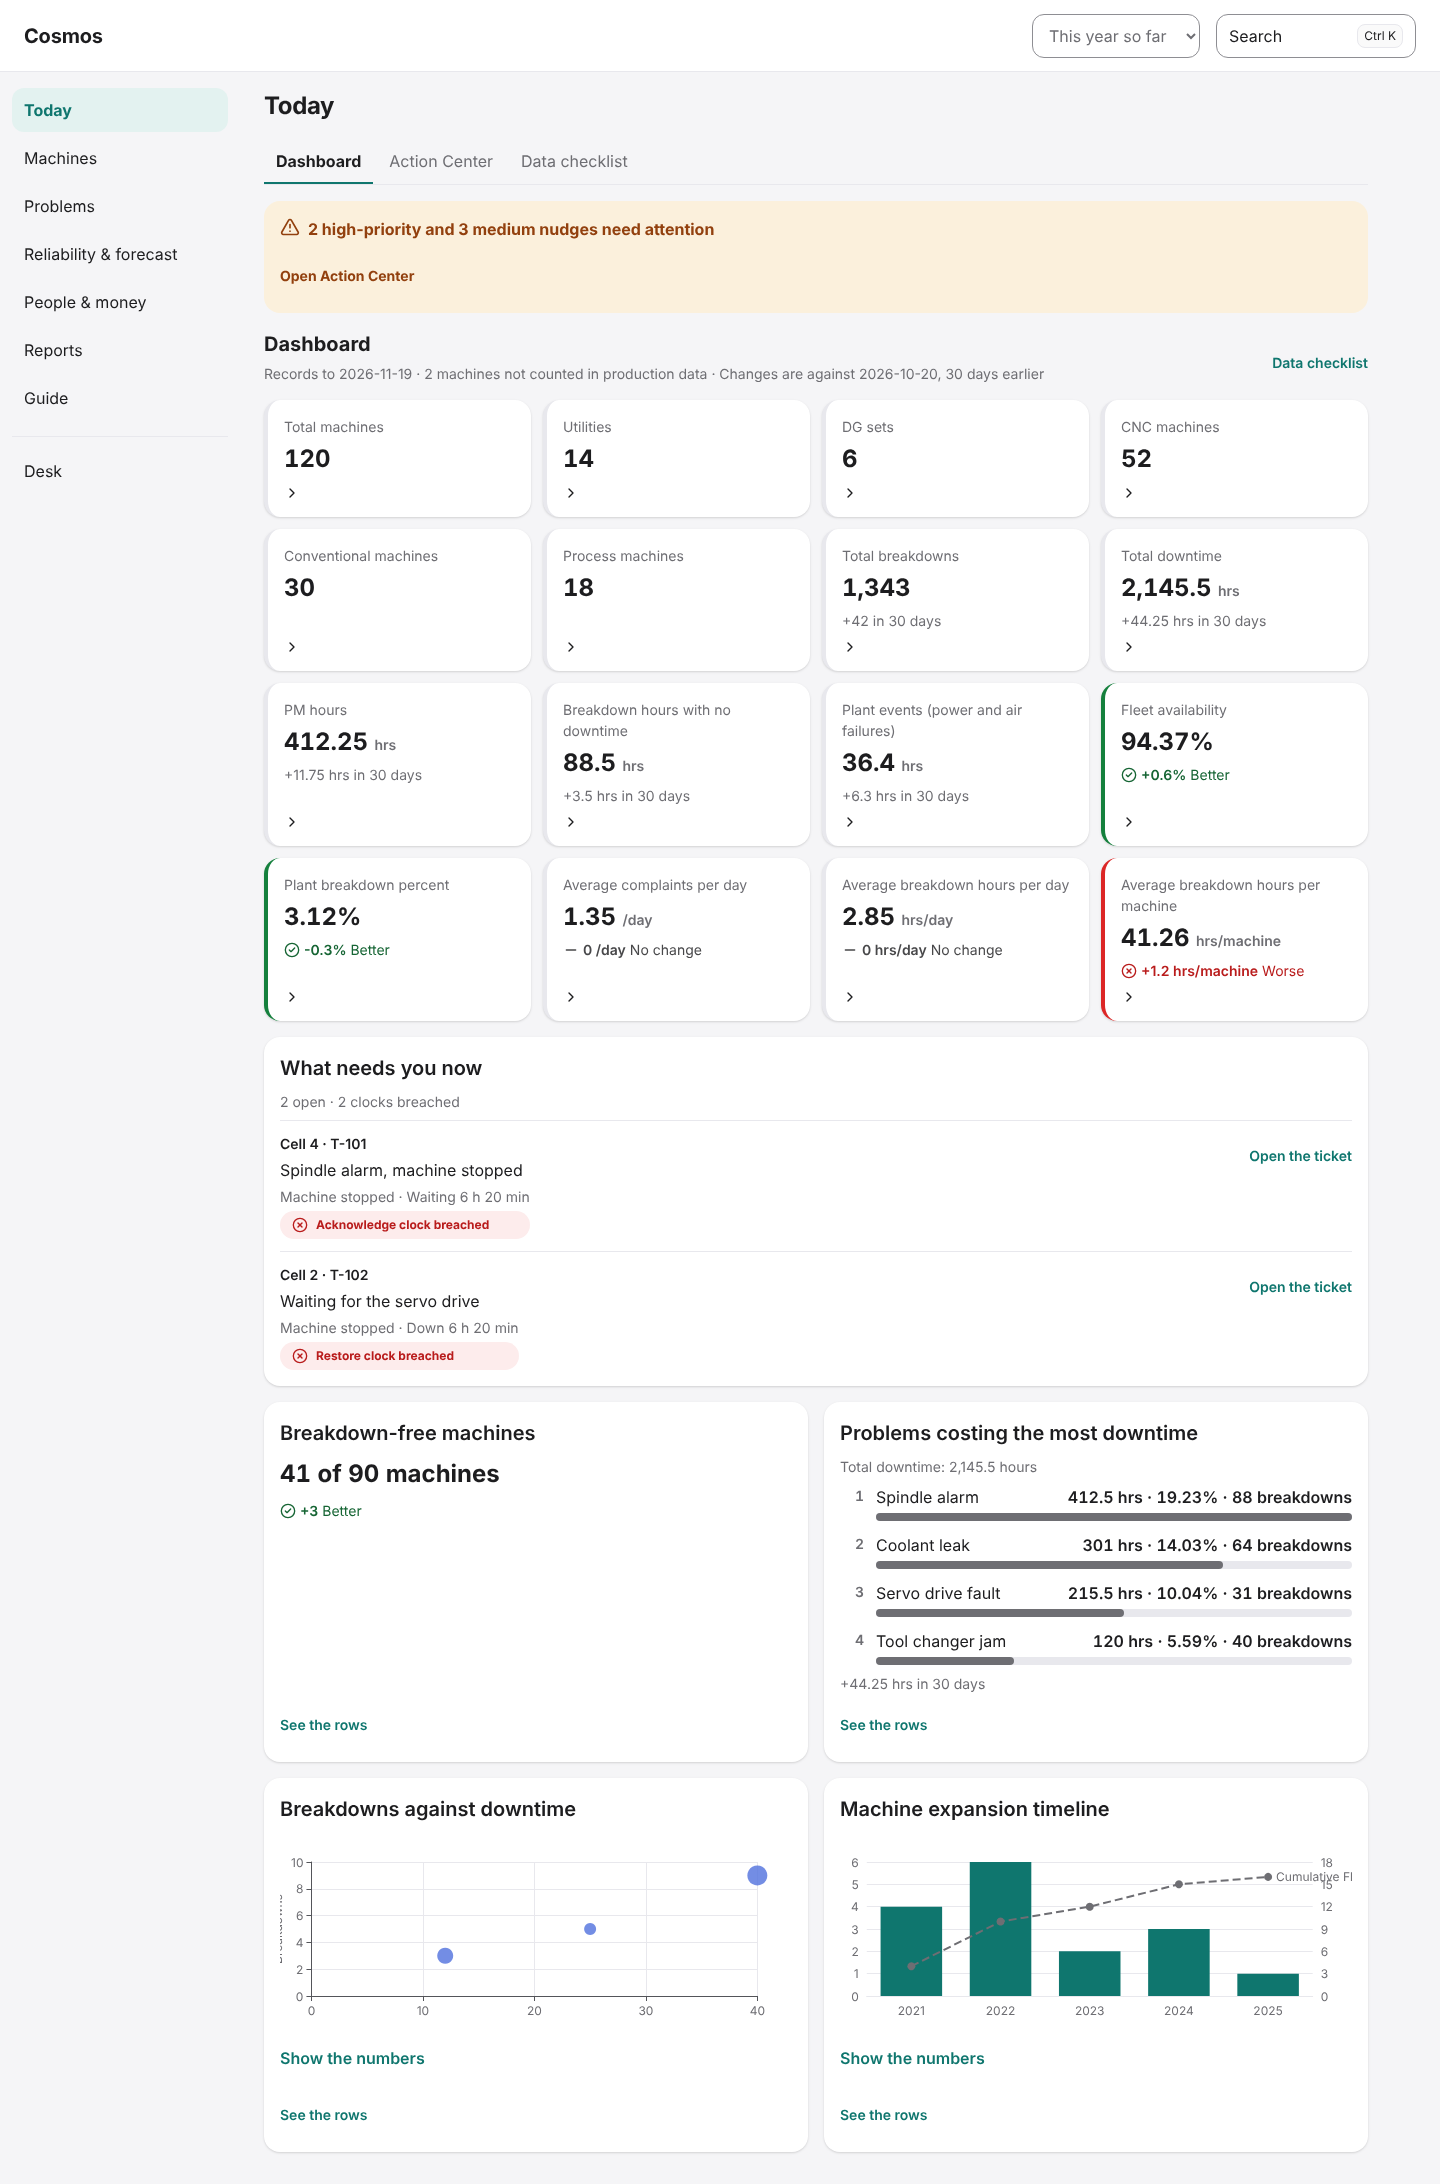
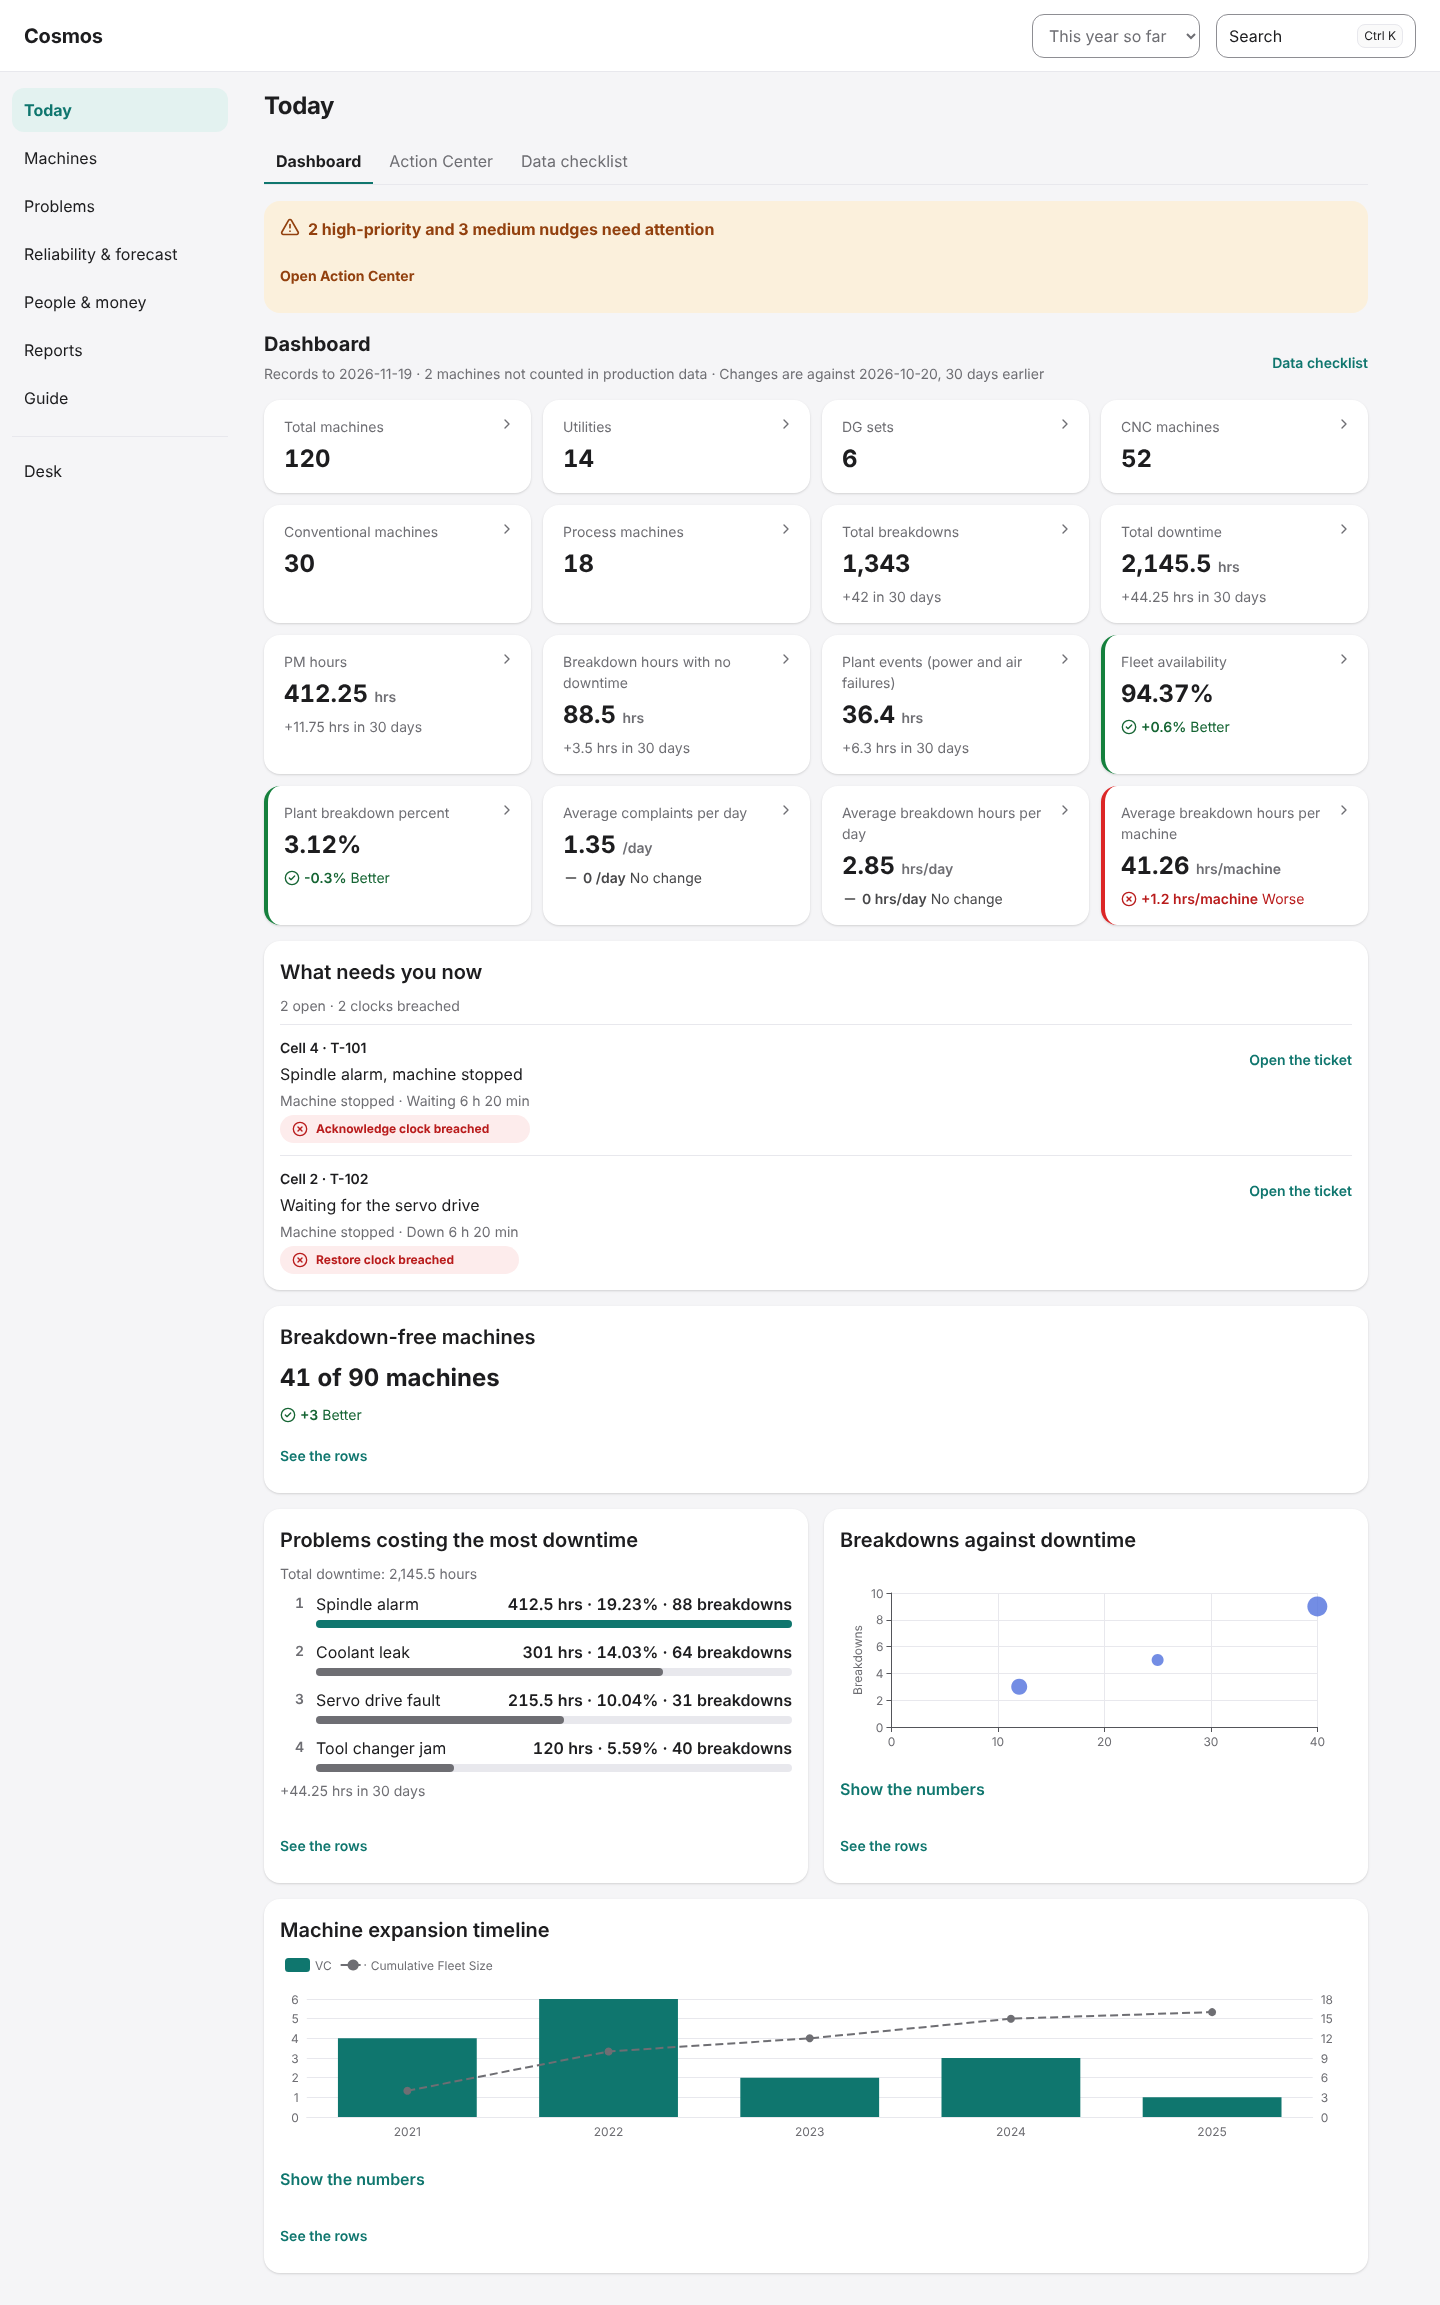
86: round 2, tight tiles, full-row cards, chart labels, one Team Focus heading
Claude-Session: https://claude.ai/code/session_01KEBF26istx9ETY2T7Vyzc3

diff --git a/apps/web/src/screens/analytics/TodayFigures.tsx b/apps/web/src/screens/analytics/TodayFigures.tsx
@@ -18,6 +18,12 @@ type Figure = FiguresReply['figures'][number];
 /** The engine gives its figures to 2 places at most; printing 2 keeps every value exact. */
 const ENGINE_DIGITS = 2;
 
+/** A sentence is short and a timeline is wide: each takes a whole row, so no card is mostly empty space. */
+const FULL_ROW: ReadonlySet<string> = new Set([
+  'dashboard.breakdown-free',
+  'dashboard.expansion-timeline',
+]);
+
 /** The way to the rows behind a figure; it sits at the foot of its tile or card, in the same place on each. */
 function DrillLink({ figure, group }: { figure: Figure; group: AnalyticsGroup }) {
   const { t } = useTranslation();
@@ -49,7 +55,11 @@ function TileLink({ figure, group }: { figure: Figure; group: AnalyticsGroup }) 
 /** One figure's cell, as tall as its row. `data-figure` lets a test find it by registry key. */
 function Cell({ figure, children }: { figure: Figure; children: ReactNode }) {
   return (
-    <div data-figure={figure.key} className="relative h-full min-w-0">
+    <div
+      data-figure={figure.key}
+      data-span={FULL_ROW.has(figure.key) ? 'full' : undefined}
+      className="relative h-full min-w-0"
+    >
       {children}
     </div>
   );
@@ -93,7 +103,11 @@ export function NumberFigure({
         verdict={held ? t('analytics.notComputed') : undefined}
         change={change?.added ? undefined : change}
         note={addedNote(change, t)}
-        footer={figure.drill.ids.length > 0 ? <ChevronRight aria-hidden size={16} /> : undefined}
+        action={
+          figure.drill.ids.length > 0 ? (
+            <ChevronRight aria-hidden size={16} className="shrink-0" />
+          ) : undefined
+        }
       />
       <TileLink figure={figure} group={group} />
     </Cell>
@@ -143,7 +157,7 @@ function ProblemsList({ figure, caption }: { figure: Figure; caption: string | u
       {ranked.length === 0 ? (
         <p className="text-body text-neutral-600">{t('analytics.drill.empty')}</p>
       ) : (
-        <RankedList items={ranked} />
+        <RankedList items={ranked} anchor />
       )}
     </>
   );

diff --git a/apps/web/src/ui/elements/kpi-tile.tsx b/apps/web/src/ui/elements/kpi-tile.tsx
@@ -51,7 +51,7 @@ export function KpiTile({
   trend,
   unit,
   note,
-  footer,
+  action,
 }: {
   label: string;
   /** The figure; it eases to a new value (600 ms, none under reduced motion). `null` prints a dash. */
@@ -67,8 +67,8 @@ export function KpiTile({
   unit?: string;
   /** A quiet line in no tone, for what is not a verdict (an amount added since the last period). */
   note?: string;
-  /** Pinned to the bottom of the tile, so tiles in a row line up whatever their label's length. */
-  footer?: ReactNode;
+  /** A small mark at the label's end (a chevron on a tile that opens something). */
+  action?: ReactNode;
 }) {
   const shown = useCountUp(value ?? 0);
   const own = toneOf(tone, verdict, change);
@@ -77,7 +77,10 @@ export function KpiTile({
       data-tone={own}
       className={`flex min-w-0 flex-col gap-1 h-full rounded-tile border-l-4 bg-surface p-4 shadow-card ${TONE_EDGE[own]}`}
     >
-      <dt className={`text-footnote text-neutral-600 ${WRAP}`}>{label}</dt>
+      <dt className="flex items-start justify-between gap-2 text-footnote text-neutral-600">
+        <span className={WRAP}>{label}</span>
+        {action}
+      </dt>
       <Headline
         text={value === null ? NO_VALUE : format(shown)}
         unit={value === null ? undefined : unit}
@@ -94,7 +97,6 @@ export function KpiTile({
           {trend ? <Sparkline values={trend.values} tone={own} label={trend.label} /> : null}
         </dd>
       ) : null}
-      {footer ? <dd className="mt-auto pt-1">{footer}</dd> : null}
     </dl>
   );
 }

diff --git a/apps/web/src/ui/elements/ranked-list.tsx b/apps/web/src/ui/elements/ranked-list.tsx
@@ -22,7 +22,7 @@ export function barShare(value: number, max: number): number {
  * Items in falling order of value (the list sorts them), each with its rank, label, printed value and a bar. The
  * bar repeats the number; it never carries it.
  */
-export function RankedList({ items }: { items: RankedItem[] }) {
+export function RankedList({ items, anchor }: { items: RankedItem[]; anchor?: boolean }) {
   if (items.length === 0) return null;
   const sorted = [...items].sort((a, b) => b.value - a.value);
   const max = sorted[0]!.value;
@@ -44,7 +44,7 @@ export function RankedList({ items }: { items: RankedItem[] }) {
               <span
                 data-bar
                 style={{ width: `${barShare(item.value, max)}%` }}
-                className={`block h-2 rounded-full ${TONE_BAR[item.word ? (item.tone ?? 'neutral') : 'neutral']}`}
+                className={`block h-2 rounded-full ${anchor && at === 0 && !item.word ? 'bg-accent-strong' : TONE_BAR[item.word ? (item.tone ?? 'neutral') : 'neutral']}`}
               />
             </span>
             {item.word ? <StatusChip tone={item.tone ?? 'neutral'}>{item.word}</StatusChip> : null}

diff --git a/apps/web/src/screens/analytics/KeyPage.tsx b/apps/web/src/screens/analytics/KeyPage.tsx
@@ -22,11 +22,14 @@ export function KeyPage({
   figure,
   group,
   renderTable,
+  untitled,
 }: {
   figure: Figure | undefined;
   group: AnalyticsGroup;
   /** A screen's own card for one table (A4's Specialization); every other table keeps the shared renderer. */
   renderTable?: (table: PageTable, index: number) => ReactNode;
+  /** The screen's own header already names the page, so the engine's title is not printed a second time. */
+  untitled?: boolean;
 }) {
   const { t } = useTranslation();
   const content = figure ? contentOf(figure, t) : null;
@@ -38,7 +41,10 @@ export function KeyPage({
     );
   return (
     <Stack gap={4}>
-      <PageFigure content={content} renderTable={renderTable} />
+      <PageFigure
+        content={untitled ? { ...content, title: '' } : content}
+        renderTable={renderTable}
+      />
       <FigureDrill figure={figure} group={group} />
     </Stack>
   );

diff --git a/apps/web/src/screens/analytics/shell/shell.css b/apps/web/src/screens/analytics/shell/shell.css
@@ -174,20 +174,13 @@
   color: var(--color-neutral-600);
 }
 @media (max-width: 480px) {
-  /* The tabs share the row and wrap their words, so no label is ever cut off. */
+  /* Tight padding so the three Today tabs fit on a phone, each on one line; a longer row scrolls. */
   .as-tabs ul {
     gap: 0;
   }
-  .as-tabs li {
-    flex: 1 1 0;
-    min-width: 0;
-  }
   .as-tabs a {
-    justify-content: center;
-    padding: var(--spacing-step-1);
-    text-align: center;
-    white-space: normal;
-    line-height: 1.2;
+    padding: 0 var(--spacing-step-2);
+    font-size: var(--text-footnote);
   }
   .as-search {
     min-width: 0;

diff --git a/apps/web/src/ui/chart/option-bars.ts b/apps/web/src/ui/chart/option-bars.ts
@@ -96,6 +96,8 @@ export function mixedOption(spec: MixedSpec, p: Palette): Option {
               spec.line.name,
               spec.line.values,
               legend ? seriesColor(p, spec.bars.length) : p.series[1],
+              // With a legend the line is named there; an end label would crowd the right axis.
+              legend ? { endLabel: { show: false } } : {},
             ),
           ]),
     ],

diff --git a/apps/web/src/screens/analytics/TeamFocusPage.tsx b/apps/web/src/screens/analytics/TeamFocusPage.tsx
@@ -93,7 +93,7 @@ export function TeamFocusPage({
   const lanes = focusLaneGroups(actions);
   return (
     <Stack gap={6}>
-      <KeyPage figure={figure} group={group} />
+      <KeyPage figure={figure} group={group} untitled />
       {lanes.length === 0 ? null : (
         <section className="flex flex-col gap-4">
           <h2 className="text-title3 font-semibold">{t('analytics.teamFocus.listTitle')}</h2>

diff --git a/apps/web/src/ui/chart/option-points.ts b/apps/web/src/ui/chart/option-points.ts
@@ -55,6 +55,8 @@ export function scatterOption(spec: ScatterSpec, p: Palette): Option {
   };
   return {
     ...baseOption(p, 24, false),
+    // Room for the rotated y title, which sits outside the labels.
+    grid: { ...(baseOption(p, 24, false).grid as object), left: 28 },
     tooltip: {
       trigger: 'item',
       confine: true,

diff --git a/apps/web/src/screens/analytics/figure-content.test.ts b/apps/web/src/screens/analytics/figure-content.test.ts
@@ -138,6 +138,7 @@ describe('the expansion timeline figure', () => {
         { name: 'TC', values: [0, 1, 1] },
       ],
       line: { name: 'Cumulative Fleet Size', values: [2, 4, 5] },
+      legend: true,
     });
     expect(calls.map((call) => call.key)).toEqual([
       'analytics.content.timeline.title',

diff --git a/apps/web/src/ui/elements/tone.ts b/apps/web/src/ui/elements/tone.ts
@@ -31,7 +31,7 @@ export const TONE_EDGE: Record<Tone4, string> = {
   good: 'border-good-fill',
   watch: 'border-watch-fill',
   bad: 'border-bad-fill',
-  neutral: 'border-neutral-200',
+  neutral: 'border-transparent',
 };
 
 export const TONE_STROKE: Record<Tone4, string> = {

diff --git a/apps/web/src/screens/analytics/figure-content.ts b/apps/web/src/screens/analytics/figure-content.ts
@@ -265,6 +265,7 @@ function timeline(value: ObjectValue, t: TFunction): FigureContent | null {
       categories: (Array.isArray(value.labels) ? value.labels : []).map((label) => String(label)),
       bars: series.slice(0, -1),
       line,
+      legend: true,
     },
   };
 }
